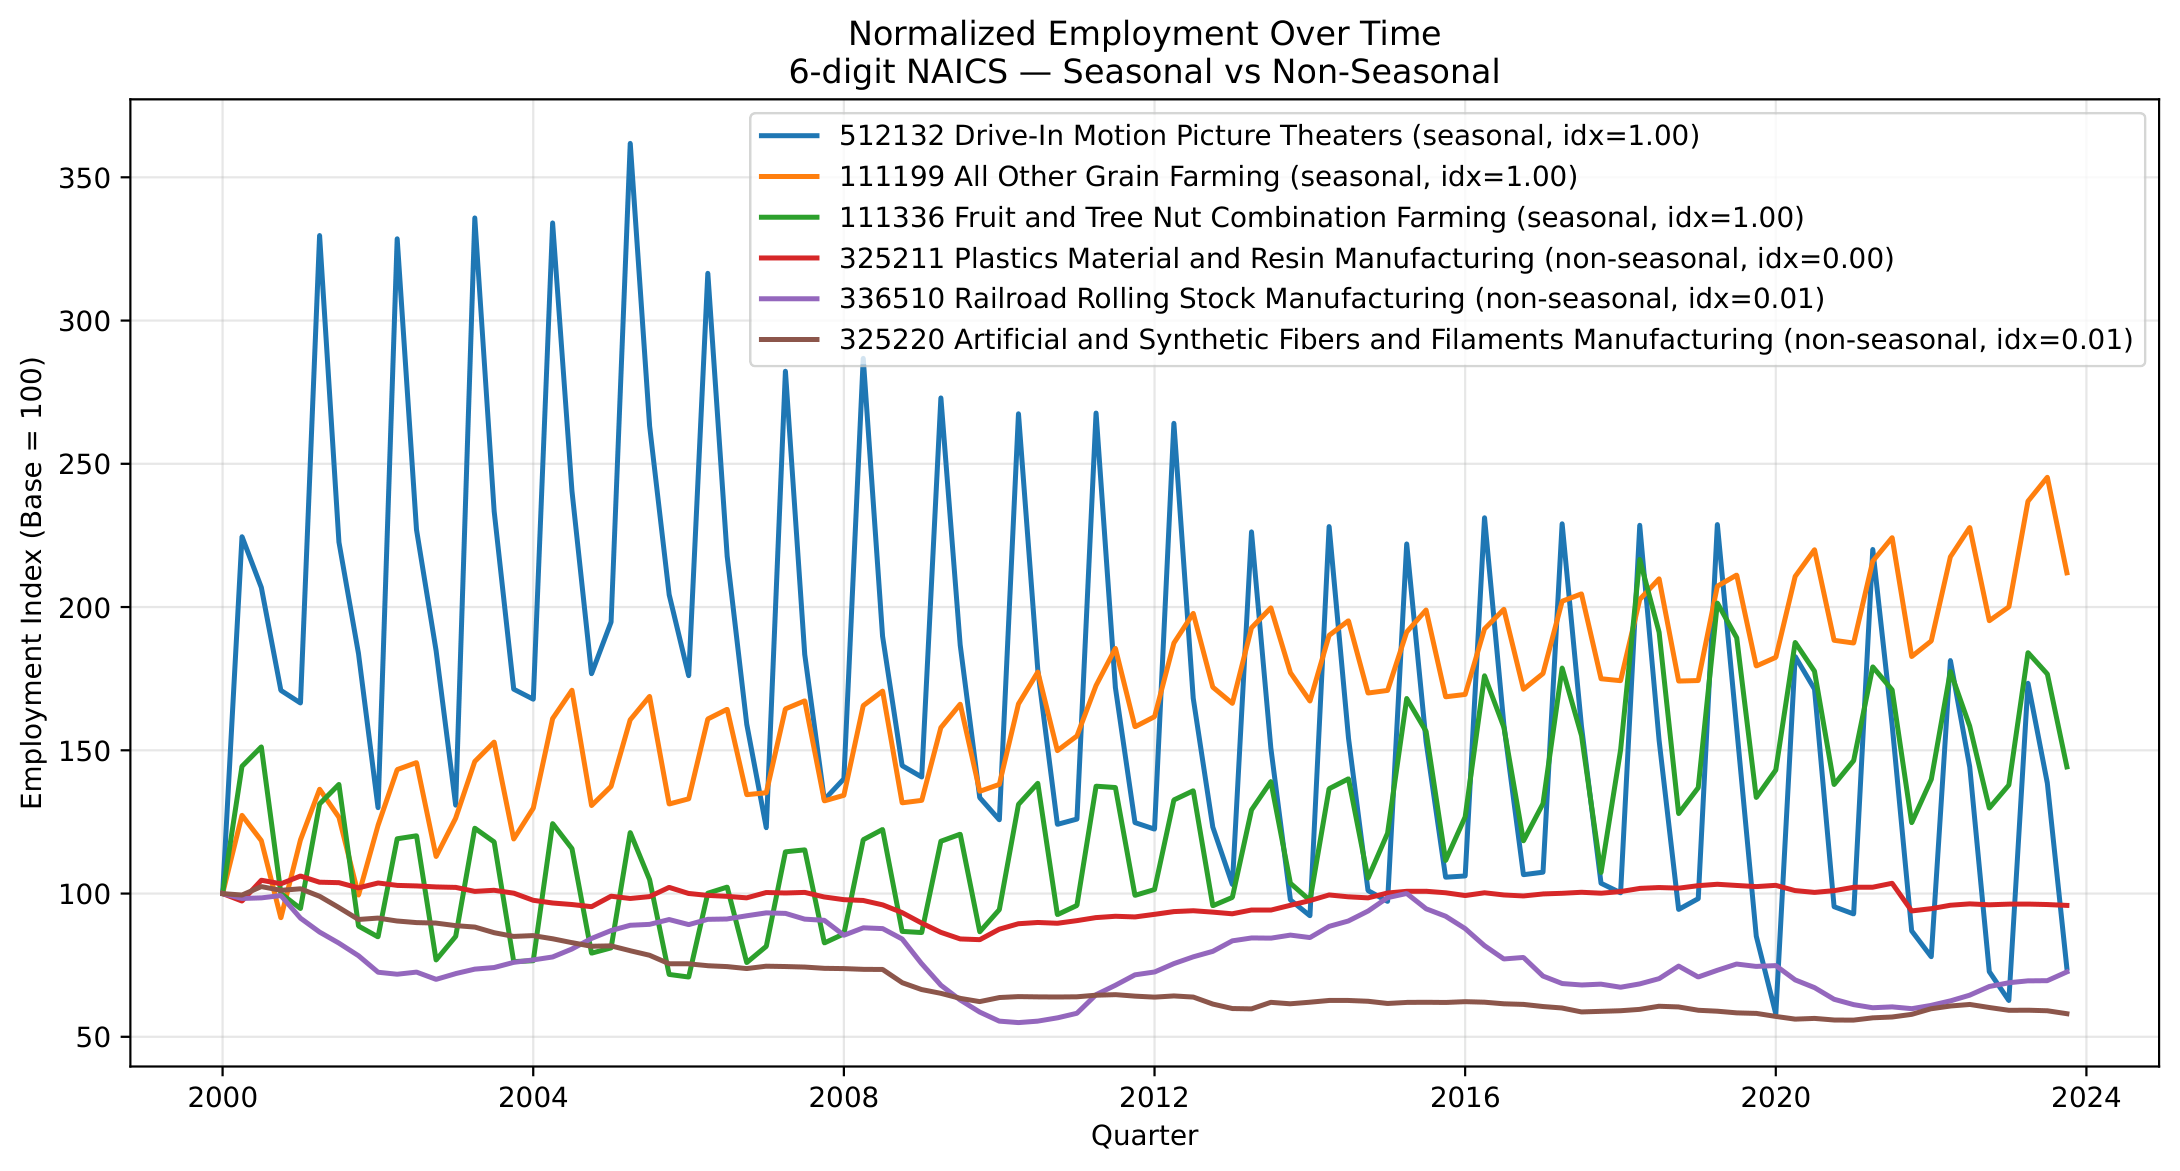
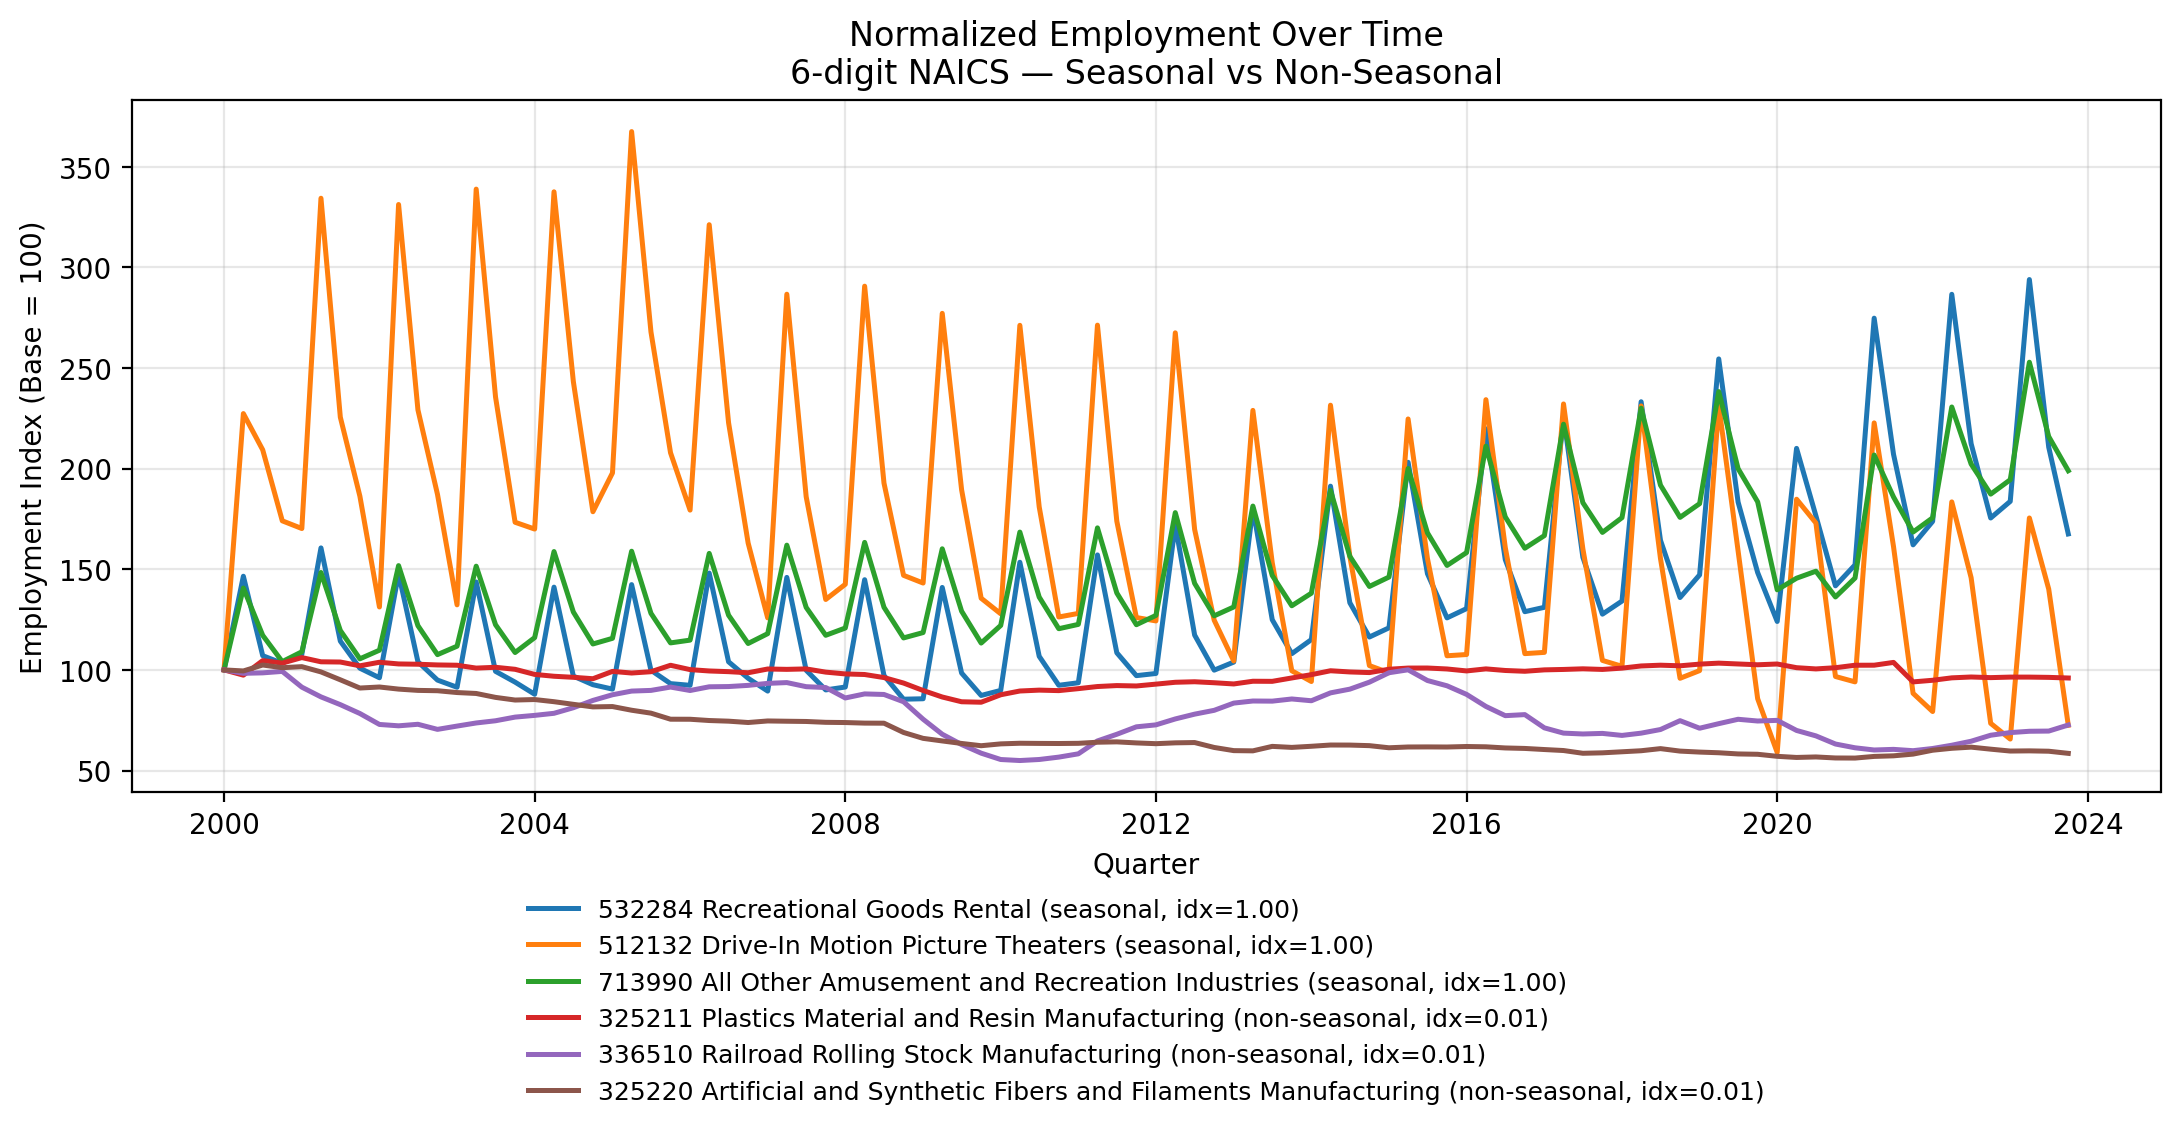
Exclude agriculture from the national-vs-state scatter and employment time series examples
Both figures still included agriculture even though it is excluded everywhere
else in the project. The scatter now drops NAICS 11 and re-winsorizes each
series on its ex-agriculture pool. The time series picks its top industries
by raw seasonal_amplitude (the stored index ties many at 1.0), skips Mobile
Food Services and Health and Welfare Funds as poor illustrations (secular
growth and a level shift respectively), saves its own PNG, and moves the
legend below the axes. Slide captions updated to match.

diff --git a/code/qwi/plot_seasonality_figures.py b/code/qwi/plot_seasonality_figures.py
@@ -94,6 +94,8 @@ def load_employment(qwi_file: Path) -> pd.DataFrame:
 # profiles. Not a data-quality problem -- just not a clean illustration.
 DEFAULT_EXCLUDE_CODES = [
     "621491",  # HMO Medical Centers: sharp 2015-2019 level shift, unrelated to seasonality
+    "722330",  # Mobile Food Services: ~10x secular growth swamps the y-axis, hiding every other series
+    "525120",  # Health and Welfare Funds: abrupt ~2013 level shift unrelated to seasonality
 ]
 
 
@@ -130,6 +132,16 @@ def select_industries_for_plot(seasonal_index: pd.DataFrame,
     # Normalize types
     df["naics_code"] = df["naics_code"].astype(str)
 
+    # Exclude agriculture (NAICS 11) and re-winsorize on the ex-agriculture
+    # pool, consistent with the rest of the project (weaker/partial UI
+    # coverage -- see agriculture_exclusion_check.py). Ranking is by raw
+    # seasonal_amplitude, since the stored seasonal_index ties many top
+    # industries at exactly 1.0.
+    df = df[df["naics_code"].str[:2] != "11"].copy()
+    df["seasonal_index"] = (
+        df["seasonal_amplitude"] / df["seasonal_amplitude"].quantile(0.99)
+    ).clip(0, 1)
+
     # Filter to exact NAICS length
     df = df[df["naics_code"].str.len() == naics_digits]
 
@@ -161,11 +173,11 @@ def select_industries_for_plot(seasonal_index: pd.DataFrame,
 
     # Select extremes within filtered set
     most = (
-        df.sort_values("seasonal_index", ascending=False)
+        df.sort_values("seasonal_amplitude", ascending=False)
         .head(n_seasonal)["naics_code"].tolist()
     )
     least = (
-        df.sort_values("seasonal_index", ascending=True)
+        df.sort_values("seasonal_amplitude", ascending=True)
         .head(n_nonseasonal)["naics_code"].tolist()
     )
 
@@ -261,7 +273,8 @@ def plot_employment_timeseries(emp: pd.DataFrame,
     ax.set_xlabel("Quarter")
     ax.set_ylabel("Employment Index (Base = 100)")
     ax.grid(alpha=0.3)
-    ax.legend()
+    # Legend below the axes so long industry names don't cover the series
+    ax.legend(loc="upper center", bbox_to_anchor=(0.5, -0.12), ncol=1, fontsize=9, frameon=False)
 
     fig.tight_layout()
     return fig
@@ -316,6 +329,10 @@ def main(qwi_file: Path, seasonal_file: Path, outdir: Path):
     fig1 = plot_employment_timeseries(emp, seasonal_index)
     fig1.savefig(outdir / "employment_timeseries_examples.pdf",
                  bbox_inches="tight")
+    # PNG used directly by the revealjs deck; saving it here keeps it from
+    # going stale the way a manually exported copy did.
+    fig1.savefig(outdir / "employment_timeseries_examples.png",
+                 dpi=200, bbox_inches="tight")
     plt.close(fig1)
 
     print("Plotting seasonal amplitude distribution…")

diff --git a/code/qwi/national_state_scatterplot.py b/code/qwi/national_state_scatterplot.py
@@ -14,6 +14,8 @@ nat_file = DATA_DIR / "seasonal_index_naics6.csv"
 state_file = DATA_DIR / "seasonal_index_naics6_by_state.csv"
 output_file = FIG_DIR / "scatter_naics_sorted_by_national_index.png"
 
+AGRICULTURE_SECTOR = "11"
+
 
 def main():
     # ---------------------------------------------------------
@@ -28,9 +30,19 @@ def main():
     df_nat["naics_code"] = df_nat["naics_code"].astype(str).str.zfill(6)
     df_state["naics_code"] = df_state["naics_code"].astype(str).str.zfill(6)
 
-    # Drop missing seasonal index values
-    df_nat = df_nat.dropna(subset=["seasonal_index"])
-    df_state = df_state.dropna(subset=["seasonal_index"])
+    # Exclude agriculture (NAICS 11) and re-winsorize each series at the
+    # 99th percentile of its own ex-agriculture pool -- same convention as the
+    # rest of the project (QWI's UI coverage of agriculture is weaker/partial;
+    # see agriculture_exclusion_check.py). The stored seasonal_index columns
+    # were winsorized on the full sample, so they must be recomputed from
+    # seasonal_amplitude rather than just filtered.
+    for df in (df_nat, df_state):
+        df["sector_2d"] = df["naics_code"].str.zfill(6).str[:2]
+    df_nat = df_nat[df_nat["sector_2d"] != AGRICULTURE_SECTOR].dropna(subset=["seasonal_amplitude"]).copy()
+    df_state = df_state[df_state["sector_2d"] != AGRICULTURE_SECTOR].dropna(subset=["seasonal_amplitude"]).copy()
+    for df in (df_nat, df_state):
+        p99 = df["seasonal_amplitude"].quantile(0.99)
+        df["seasonal_index"] = (df["seasonal_amplitude"] / p99).clip(0, 1)
 
     # ---------------------------------------------------------
     # 3. Sort NAICS codes by national seasonal index
@@ -79,7 +91,7 @@ def main():
     # ---------------------------------------------------------
     plt.xlabel("NAICS codes sorted by national seasonal index (rank)")
     plt.ylabel("Seasonal index")
-    plt.title("State vs National Seasonal Index: NAICS sorted by national seasonality")
+    plt.title("State vs National Seasonal Index: NAICS sorted by national seasonality (excl. agriculture)")
     plt.legend(loc="upper left")
     plt.tight_layout()
 

diff --git a/CLAUDE.md b/CLAUDE.md
@@ -125,6 +125,15 @@ than hand-edit the output, `select_industries_for_plot()` now takes an
 Artificial and Synthetic Fibers and Filaments Manufacturing (325220) fills
 the slot instead — a clean flat/declining trend.
 
+**Illustrative figures exclude agriculture (2026-10)**: `plot_seasonality_figures.py`'s
+employment time series examples and `national_state_scatterplot.py`'s national-vs-state
+scatter both drop NAICS 11 and re-winsorize on the ex-agriculture pool; the time series
+picks its top 3 by raw `seasonal_amplitude` (the stored index ties many industries at
+1.0) and now saves its own `.png`. `DEFAULT_EXCLUDE_CODES` also skips Mobile Food
+Services (~10x secular growth swamps the y-axis) and Health and Welfare Funds (abrupt
+~2013 level shift) as poor illustrations, alongside HMO Medical Centers; the examples
+are now Recreational Goods Rental, Drive-In Theaters, and All Other Amusement/Recreation.
+
 Note: Education peaks in Q2 (end of school year), not Q4. All education industries have
 positive peak_excess. Mathematical identity: the four quarter excesses sum to zero within
 any year, so peak_excess ≥ 0 by construction (barring thin-data filtering that excludes
